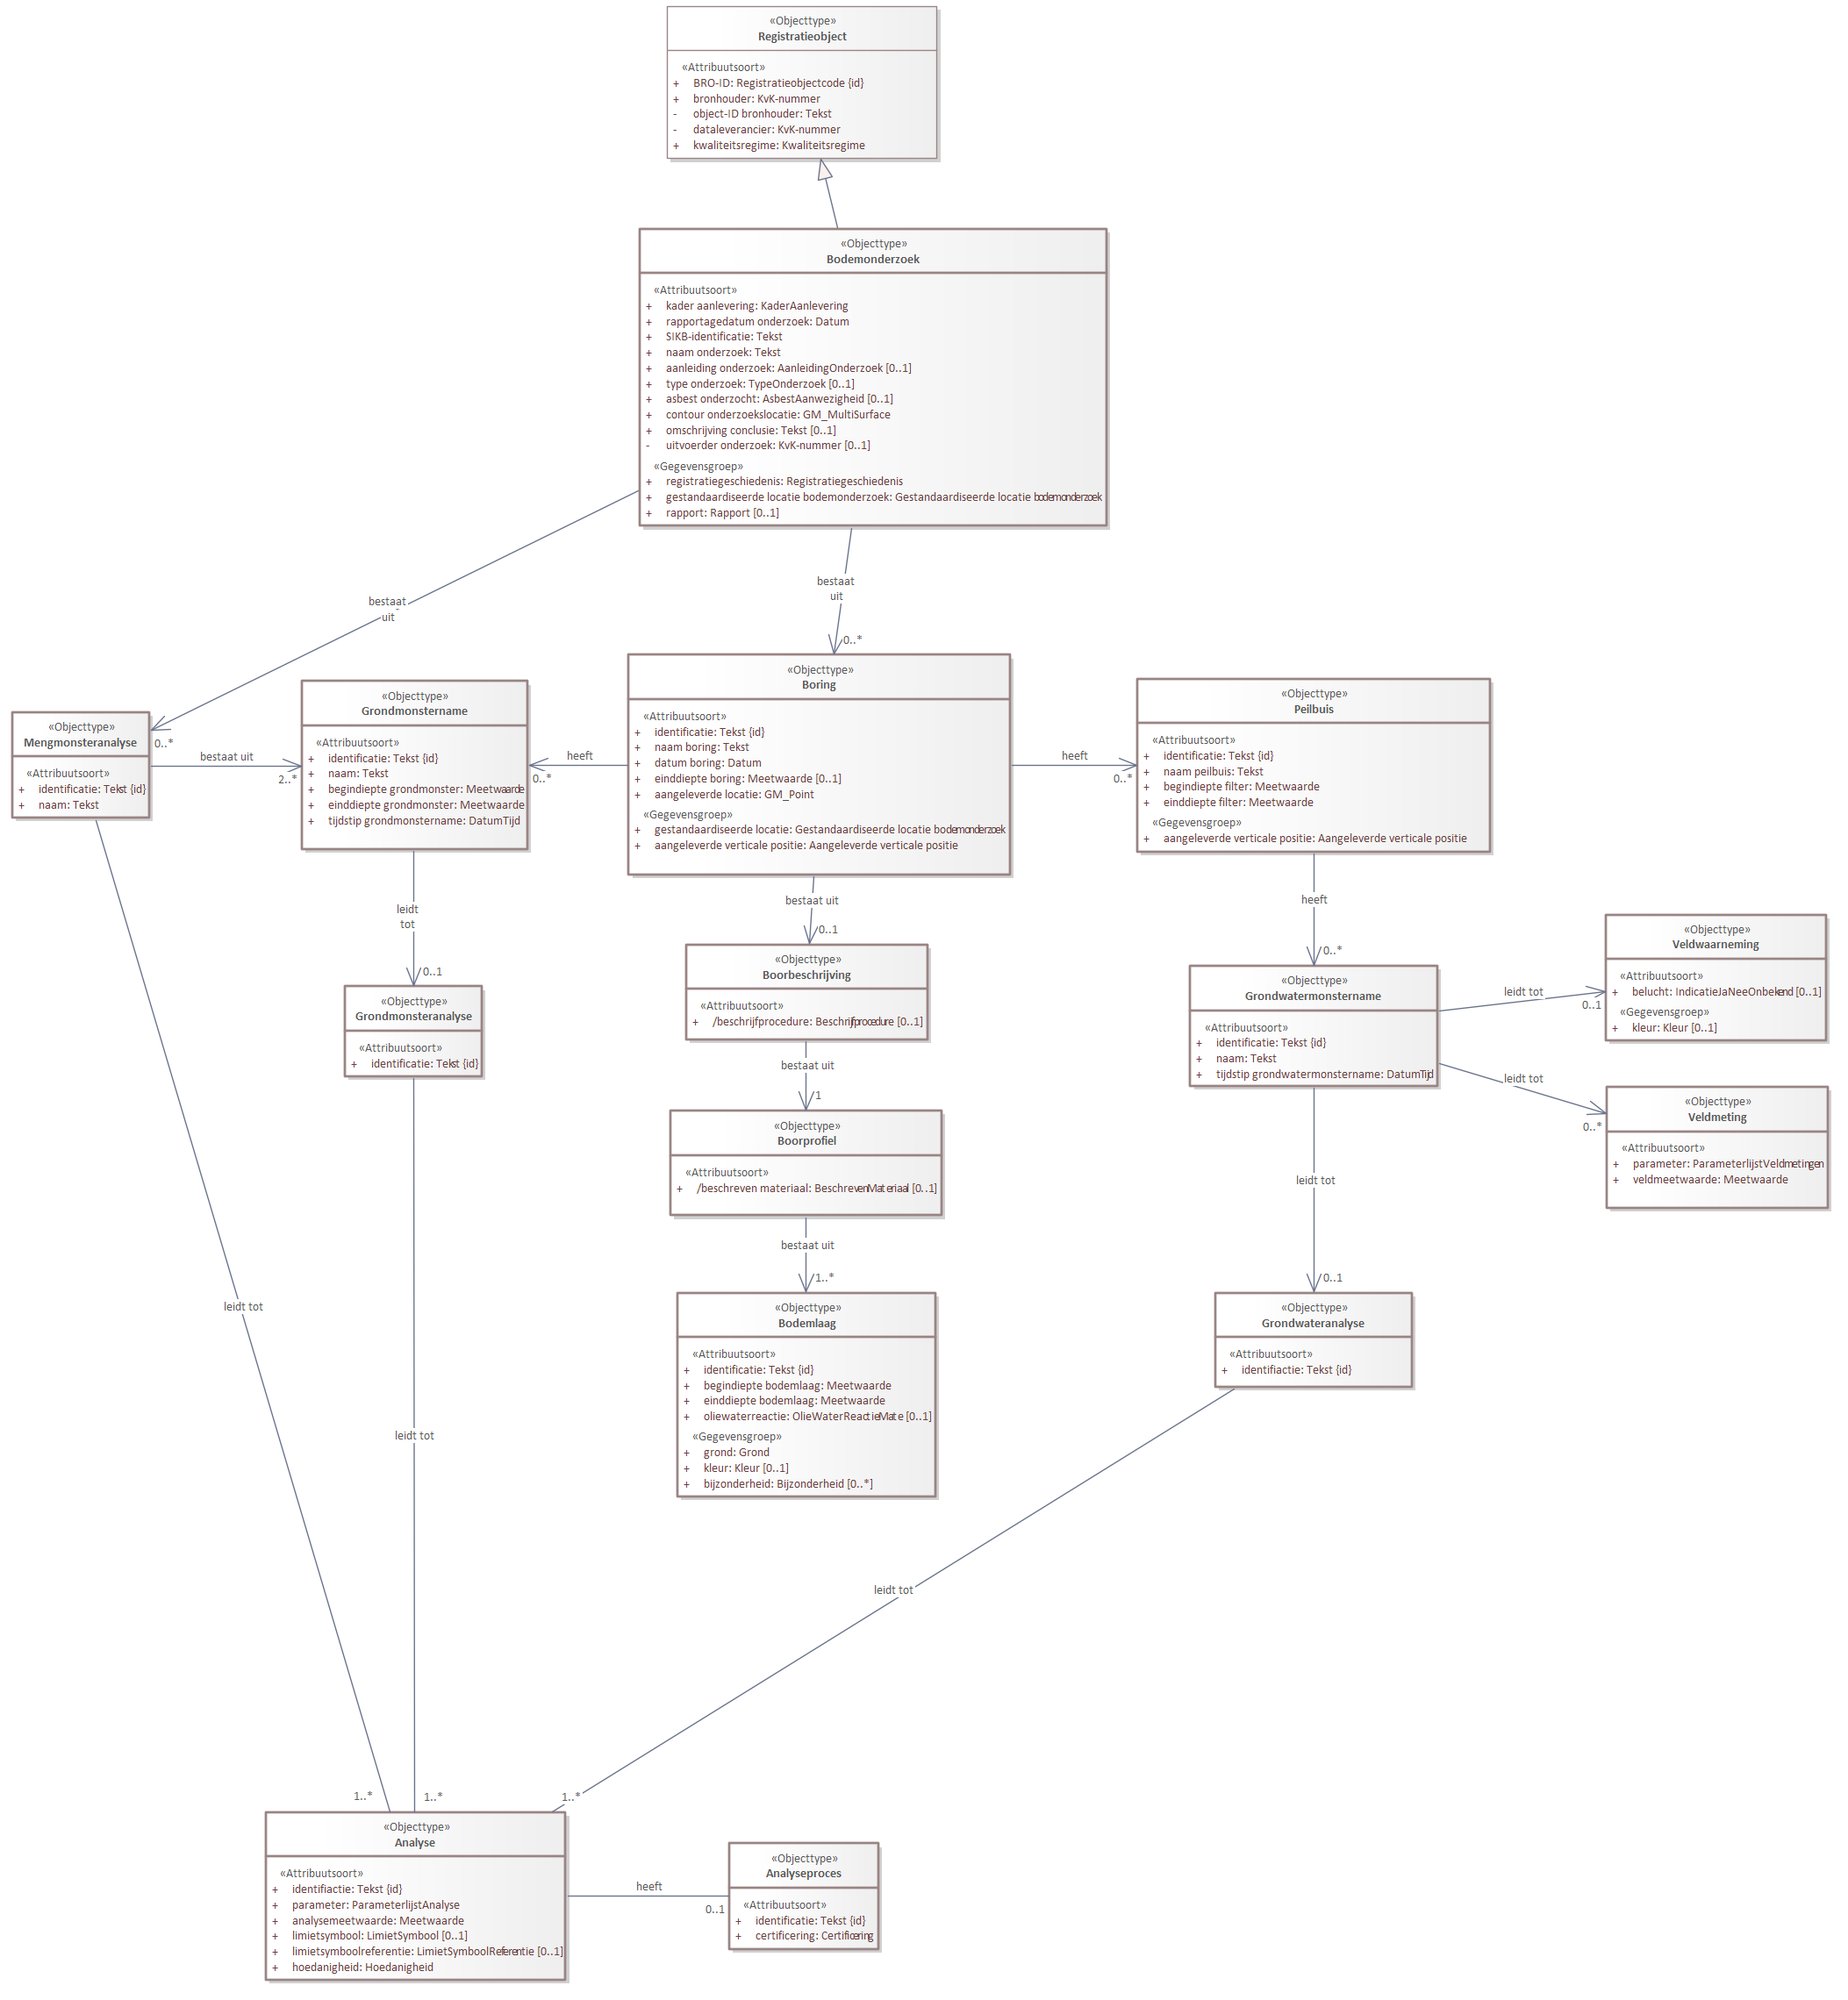
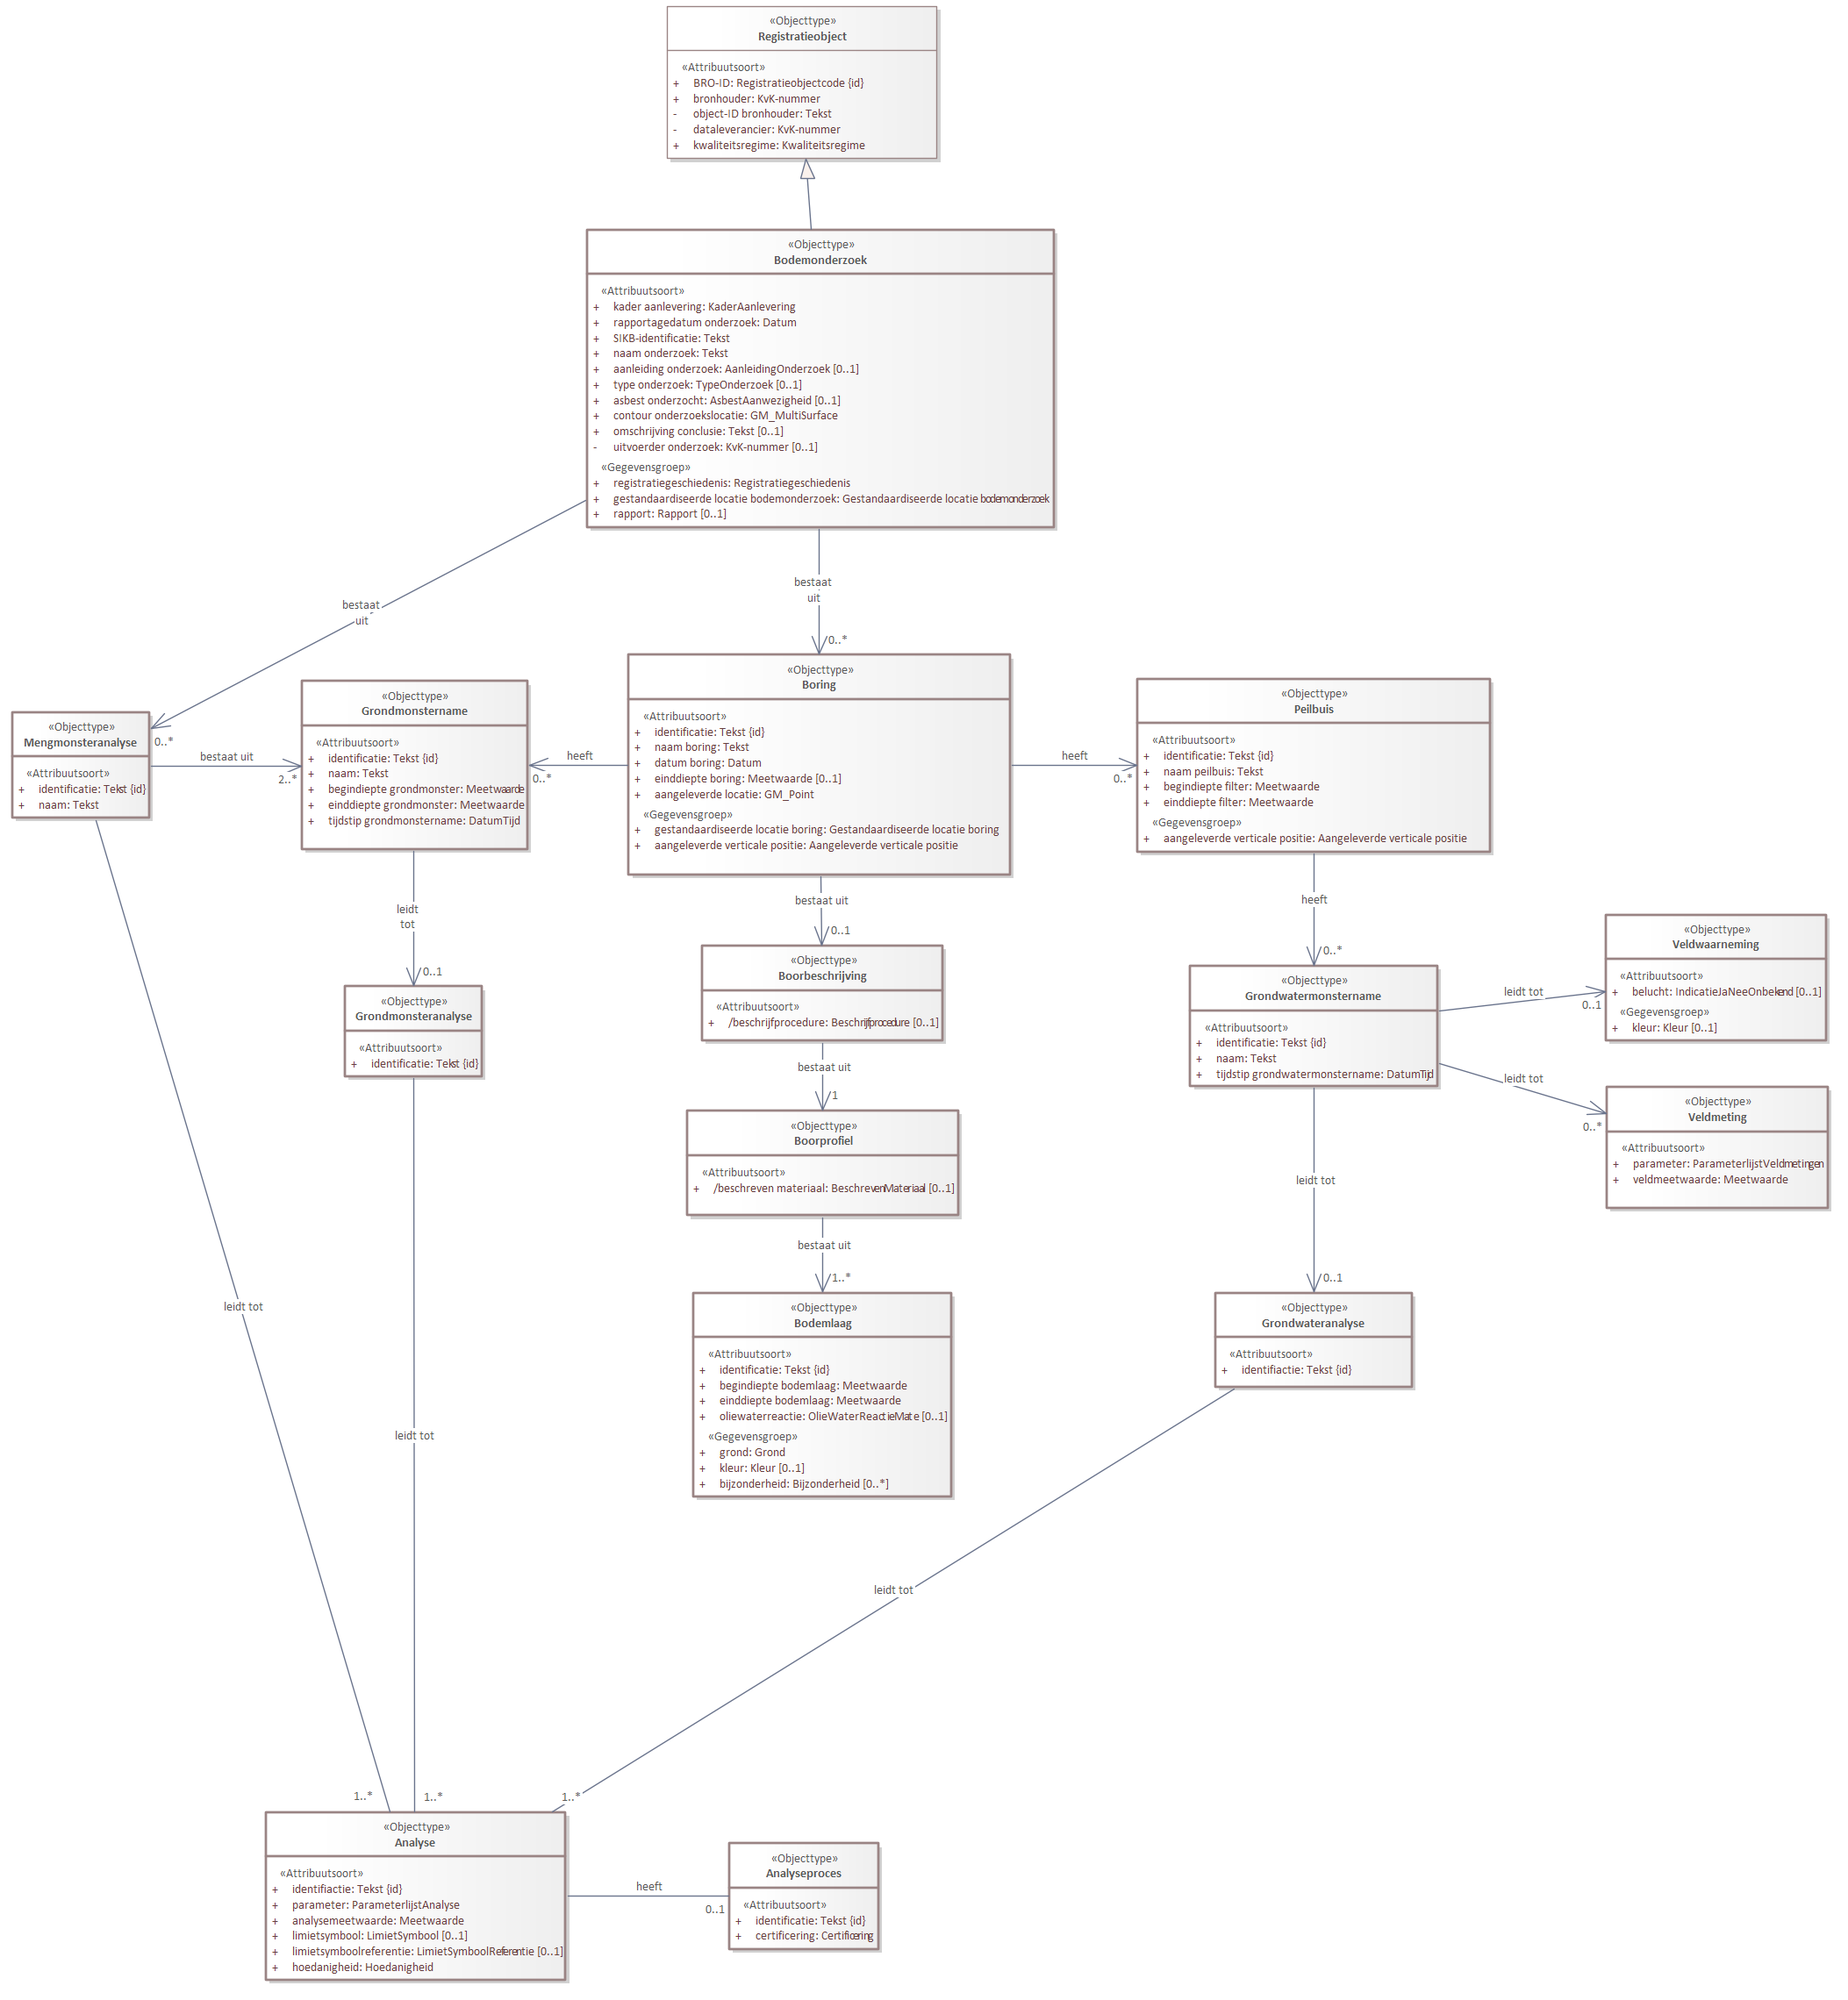
Conceptualmodel-MilieuhygienischbodemonderzoekSAD-0.2-1-20230126-20230509-070505

diff --git a/data/SAD-cat.msword.html b/data/SAD-cat.msword.html
@@ -15,7 +15,7 @@
    <body>
       <p>Conceptual model/Milieuhygienisch bodemonderzoek SAD/20230126</p>
       <p>Imvertor: 2.0.0</p>
-      <p>Model release: Conceptualmodel-MilieuhygienischbodemonderzoekSAD-0.2-1-20230126-20230509-064717</p>
+      <p>Model release: Conceptualmodel-MilieuhygienischbodemonderzoekSAD-0.2-1-20230126-20230509-070505</p>
       <hr>
       <section>
          <h1>Artikel 1 Definitie van registratieobject, entiteiten en attributen</h1>
@@ -65,7 +65,7 @@
          <section>
             <h2>Het domeinmodel</h2>
             <section id="">
-               <div class="imageinfo overview"><img src="Images/EAID_FABA90F8_223C_433d_BAE3_74F87B3DC220.png" usemap="#imagemap-EAID_FABA90F8_223C_433d_BAE3_74F87B3DC220" alt="Diagram &#xA;                        &#xA;                     "><map name="imagemap-EAID_FABA90F8_223C_433d_BAE3_74F87B3DC220"><area shape="rect" alt="Analyseproces" coords="831,2101,1002,2223" href="#graph_EAID_89FCADC6_B091_492b_94BD_37324C7637EA"><area shape="rect" alt="Analyse" coords="303,2066,645,2258" href="#graph_EAID_AE9CD58D_588C_44cf_A7B7_09EDB181B001"><area shape="rect" alt="Grondwateranalyse" coords="1385,1474,1610,1582" href="#graph_EAID_50237BC0_6FD9_482a_841F_A44137C00FCA"><area shape="rect" alt="Grondmonsteranalyse" coords="393,1124,550,1228" href="#graph_EAID_DFC0DB4F_7DC8_4920_917A_907819C6EC19"><area shape="rect" alt="Boorprofiel" coords="764,1266,1074,1386" href="#graph_EAID_6CF3D55E_1BD5_4108_BEA5_8B69EB2D2097"><area shape="rect" alt="Boorbeschrijving" coords="782,1077,1058,1186" href="#graph_EAID_080E44E6_527C_42db_BCF3_7400257377C2"><area shape="rect" alt="Veldmeting" coords="1831,1239,2084,1378" href="#graph_EAID_C348E314_A61B_43a0_AFED_083DA812EC5F"><area shape="rect" alt="Veldwaarneming" coords="1830,1043,2082,1187" href="#graph_EAID_A3A8A9F5_B12D_47e9_9D67_F12687999F0D"><area shape="rect" alt="Mengmonsteranalyse" coords="14,812,171,933" href="#graph_EAID_E7A3C99D_3348_4875_9BD5_4E0481E72C54"><area shape="rect" alt="Grondwatermonstername" coords="1356,1101,1639,1239" href="#graph_EAID_24B6DB20_4EA3_453f_B195_E642F22CC27C"><area shape="rect" alt="Grondmonstername" coords="344,776,602,969" href="#graph_EAID_8A8D6A0E_DAF9_415a_9AE7_09155A2C5869"><area shape="rect" alt="Peilbuis" coords="1296,774,1699,972" href="#graph_EAID_0075B243_E663_4ee7_9154_9D5DE12CCB21"><area shape="rect" alt="Bodemlaag" coords="772,1474,1067,1707" href="#graph_EAID_88CF9E45_3E0E_40da_96C1_2CDD80B69F6F"><area shape="rect" alt="Boring" coords="716,746,1152,998" href="#graph_EAID_40FFF5B9_99C5_4c21_9D72_A3D1DD3C857F"><area shape="rect" alt="Registratieobject" coords="760,7,1068,181" href="#graph_EAID_67DBE718_38E0_4ead_8649_72EA0B4A2355"><area shape="rect" alt="Bodemonderzoek" coords="729,261,1262,600" href="#graph_EAID_ABAADB49_C747_4775_A739_CC832CAD59F1"></map><p><b>Domeinmodel milieuhygienisch bodemonderzoek</b></p>
+               <div class="imageinfo overview"><img src="Images/EAID_FABA90F8_223C_433d_BAE3_74F87B3DC220.png" usemap="#imagemap-EAID_FABA90F8_223C_433d_BAE3_74F87B3DC220" alt="Diagram &#xA;                        &#xA;                     "><map name="imagemap-EAID_FABA90F8_223C_433d_BAE3_74F87B3DC220"><area shape="rect" alt="Analyseproces" coords="831,2101,1002,2223" href="#graph_EAID_89FCADC6_B091_492b_94BD_37324C7637EA"><area shape="rect" alt="Analyse" coords="303,2066,645,2258" href="#graph_EAID_AE9CD58D_588C_44cf_A7B7_09EDB181B001"><area shape="rect" alt="Grondwateranalyse" coords="1385,1474,1610,1582" href="#graph_EAID_50237BC0_6FD9_482a_841F_A44137C00FCA"><area shape="rect" alt="Grondmonsteranalyse" coords="393,1124,550,1228" href="#graph_EAID_DFC0DB4F_7DC8_4920_917A_907819C6EC19"><area shape="rect" alt="Boorprofiel" coords="783,1266,1093,1386" href="#graph_EAID_6CF3D55E_1BD5_4108_BEA5_8B69EB2D2097"><area shape="rect" alt="Boorbeschrijving" coords="800,1078,1075,1187" href="#graph_EAID_080E44E6_527C_42db_BCF3_7400257377C2"><area shape="rect" alt="Veldmeting" coords="1831,1239,2084,1378" href="#graph_EAID_C348E314_A61B_43a0_AFED_083DA812EC5F"><area shape="rect" alt="Veldwaarneming" coords="1830,1043,2082,1187" href="#graph_EAID_A3A8A9F5_B12D_47e9_9D67_F12687999F0D"><area shape="rect" alt="Mengmonsteranalyse" coords="14,812,171,933" href="#graph_EAID_E7A3C99D_3348_4875_9BD5_4E0481E72C54"><area shape="rect" alt="Grondwatermonstername" coords="1356,1101,1639,1239" href="#graph_EAID_24B6DB20_4EA3_453f_B195_E642F22CC27C"><area shape="rect" alt="Grondmonstername" coords="344,776,602,969" href="#graph_EAID_8A8D6A0E_DAF9_415a_9AE7_09155A2C5869"><area shape="rect" alt="Peilbuis" coords="1296,774,1699,972" href="#graph_EAID_0075B243_E663_4ee7_9154_9D5DE12CCB21"><area shape="rect" alt="Bodemlaag" coords="790,1474,1085,1707" href="#graph_EAID_88CF9E45_3E0E_40da_96C1_2CDD80B69F6F"><area shape="rect" alt="Boring" coords="716,746,1152,998" href="#graph_EAID_40FFF5B9_99C5_4c21_9D72_A3D1DD3C857F"><area shape="rect" alt="Registratieobject" coords="760,7,1068,181" href="#graph_EAID_67DBE718_38E0_4ead_8649_72EA0B4A2355"><area shape="rect" alt="Bodemonderzoek" coords="669,262,1202,602" href="#graph_EAID_ABAADB49_C747_4775_A739_CC832CAD59F1"></map><p><b>Domeinmodel milieuhygienisch bodemonderzoek</b></p>
                </div>
             </section>
          </section>
@@ -1846,7 +1846,7 @@
                         </tbody>
                      </table>
                      </section><a class="anchor" id="detail_d94218e8500"></a><section id="detail_d94218e8500">
-                     <h4>  gestandaardiseerde locatie</h4>
+                     <h4>  gestandaardiseerde locatie boring</h4>
                      <table style="width: 100%;">
                         <colgroup style="width: 30%;"></colgroup>
                         <colgroup style="width: 70%;"></colgroup>
@@ -1874,7 +1874,7 @@
                            <tr>
                               <th>Gegevensgroeptype</th>
                               <td>
-                                 <a class="link" href="#global_class_Model_Gestandaardiseerdelocatiebodemonderzoek">Gestandaardiseerde locatie bodemonderzoek</a>
+                                 <a class="link" href="#global_class_Model_Gestandaardiseerdelocatieboring">Gestandaardiseerde locatie boring</a>
                                  </td>
                            </tr>
                         </tbody>

diff --git a/data/SAD-cat.respec.html b/data/SAD-cat.respec.html
@@ -43,7 +43,7 @@
       </section>
    <section id="">
       <h2>Het domeinmodel   </h2>
-      <div class="imageinfo overview"><img src="data/Images/EAID_FABA90F8_223C_433d_BAE3_74F87B3DC220.png" usemap="#imagemap-EAID_FABA90F8_223C_433d_BAE3_74F87B3DC220" alt="Diagram &#xA;                        &#xA;                     "><map name="imagemap-EAID_FABA90F8_223C_433d_BAE3_74F87B3DC220"><area shape="rect" alt="Analyseproces" coords="831,2101,1002,2223" href="#graph_EAID_89FCADC6_B091_492b_94BD_37324C7637EA"><area shape="rect" alt="Analyse" coords="303,2066,645,2258" href="#graph_EAID_AE9CD58D_588C_44cf_A7B7_09EDB181B001"><area shape="rect" alt="Grondwateranalyse" coords="1385,1474,1610,1582" href="#graph_EAID_50237BC0_6FD9_482a_841F_A44137C00FCA"><area shape="rect" alt="Grondmonsteranalyse" coords="393,1124,550,1228" href="#graph_EAID_DFC0DB4F_7DC8_4920_917A_907819C6EC19"><area shape="rect" alt="Boorprofiel" coords="764,1266,1074,1386" href="#graph_EAID_6CF3D55E_1BD5_4108_BEA5_8B69EB2D2097"><area shape="rect" alt="Boorbeschrijving" coords="782,1077,1058,1186" href="#graph_EAID_080E44E6_527C_42db_BCF3_7400257377C2"><area shape="rect" alt="Veldmeting" coords="1831,1239,2084,1378" href="#graph_EAID_C348E314_A61B_43a0_AFED_083DA812EC5F"><area shape="rect" alt="Veldwaarneming" coords="1830,1043,2082,1187" href="#graph_EAID_A3A8A9F5_B12D_47e9_9D67_F12687999F0D"><area shape="rect" alt="Mengmonsteranalyse" coords="14,812,171,933" href="#graph_EAID_E7A3C99D_3348_4875_9BD5_4E0481E72C54"><area shape="rect" alt="Grondwatermonstername" coords="1356,1101,1639,1239" href="#graph_EAID_24B6DB20_4EA3_453f_B195_E642F22CC27C"><area shape="rect" alt="Grondmonstername" coords="344,776,602,969" href="#graph_EAID_8A8D6A0E_DAF9_415a_9AE7_09155A2C5869"><area shape="rect" alt="Peilbuis" coords="1296,774,1699,972" href="#graph_EAID_0075B243_E663_4ee7_9154_9D5DE12CCB21"><area shape="rect" alt="Bodemlaag" coords="772,1474,1067,1707" href="#graph_EAID_88CF9E45_3E0E_40da_96C1_2CDD80B69F6F"><area shape="rect" alt="Boring" coords="716,746,1152,998" href="#graph_EAID_40FFF5B9_99C5_4c21_9D72_A3D1DD3C857F"><area shape="rect" alt="Registratieobject" coords="760,7,1068,181" href="#graph_EAID_67DBE718_38E0_4ead_8649_72EA0B4A2355"><area shape="rect" alt="Bodemonderzoek" coords="729,261,1262,600" href="#graph_EAID_ABAADB49_C747_4775_A739_CC832CAD59F1"></map><p><b>Domeinmodel milieuhygienisch bodemonderzoek</b></p>
+      <div class="imageinfo overview"><img src="data/Images/EAID_FABA90F8_223C_433d_BAE3_74F87B3DC220.png" usemap="#imagemap-EAID_FABA90F8_223C_433d_BAE3_74F87B3DC220" alt="Diagram &#xA;                        &#xA;                     "><map name="imagemap-EAID_FABA90F8_223C_433d_BAE3_74F87B3DC220"><area shape="rect" alt="Analyseproces" coords="831,2101,1002,2223" href="#graph_EAID_89FCADC6_B091_492b_94BD_37324C7637EA"><area shape="rect" alt="Analyse" coords="303,2066,645,2258" href="#graph_EAID_AE9CD58D_588C_44cf_A7B7_09EDB181B001"><area shape="rect" alt="Grondwateranalyse" coords="1385,1474,1610,1582" href="#graph_EAID_50237BC0_6FD9_482a_841F_A44137C00FCA"><area shape="rect" alt="Grondmonsteranalyse" coords="393,1124,550,1228" href="#graph_EAID_DFC0DB4F_7DC8_4920_917A_907819C6EC19"><area shape="rect" alt="Boorprofiel" coords="783,1266,1093,1386" href="#graph_EAID_6CF3D55E_1BD5_4108_BEA5_8B69EB2D2097"><area shape="rect" alt="Boorbeschrijving" coords="800,1078,1075,1187" href="#graph_EAID_080E44E6_527C_42db_BCF3_7400257377C2"><area shape="rect" alt="Veldmeting" coords="1831,1239,2084,1378" href="#graph_EAID_C348E314_A61B_43a0_AFED_083DA812EC5F"><area shape="rect" alt="Veldwaarneming" coords="1830,1043,2082,1187" href="#graph_EAID_A3A8A9F5_B12D_47e9_9D67_F12687999F0D"><area shape="rect" alt="Mengmonsteranalyse" coords="14,812,171,933" href="#graph_EAID_E7A3C99D_3348_4875_9BD5_4E0481E72C54"><area shape="rect" alt="Grondwatermonstername" coords="1356,1101,1639,1239" href="#graph_EAID_24B6DB20_4EA3_453f_B195_E642F22CC27C"><area shape="rect" alt="Grondmonstername" coords="344,776,602,969" href="#graph_EAID_8A8D6A0E_DAF9_415a_9AE7_09155A2C5869"><area shape="rect" alt="Peilbuis" coords="1296,774,1699,972" href="#graph_EAID_0075B243_E663_4ee7_9154_9D5DE12CCB21"><area shape="rect" alt="Bodemlaag" coords="790,1474,1085,1707" href="#graph_EAID_88CF9E45_3E0E_40da_96C1_2CDD80B69F6F"><area shape="rect" alt="Boring" coords="716,746,1152,998" href="#graph_EAID_40FFF5B9_99C5_4c21_9D72_A3D1DD3C857F"><area shape="rect" alt="Registratieobject" coords="760,7,1068,181" href="#graph_EAID_67DBE718_38E0_4ead_8649_72EA0B4A2355"><area shape="rect" alt="Bodemonderzoek" coords="669,262,1202,602" href="#graph_EAID_ABAADB49_C747_4775_A739_CC832CAD59F1"></map><p><b>Domeinmodel milieuhygienisch bodemonderzoek</b></p>
       </div>
    </section>
    <section id="">
@@ -1822,7 +1822,7 @@
                </tbody>
             </table>
             </section><a class="anchor" id="detail_d94218e8500"></a><section id="detail_d94218e8500">
-            <h4>  gestandaardiseerde locatie</h4>
+            <h4>  gestandaardiseerde locatie boring</h4>
             <table style="width: 100%;">
                <colgroup style="width: 30%;"></colgroup>
                <colgroup style="width: 70%;"></colgroup>
@@ -1850,7 +1850,7 @@
                   <tr>
                      <th>Gegevensgroeptype</th>
                      <td>
-                        <a class="link" href="#global_class_Model_Gestandaardiseerdelocatiebodemonderzoek">Gestandaardiseerde locatie bodemonderzoek</a>
+                        <a class="link" href="#global_class_Model_Gestandaardiseerdelocatieboring">Gestandaardiseerde locatie boring</a>
                         </td>
                   </tr>
                </tbody>
